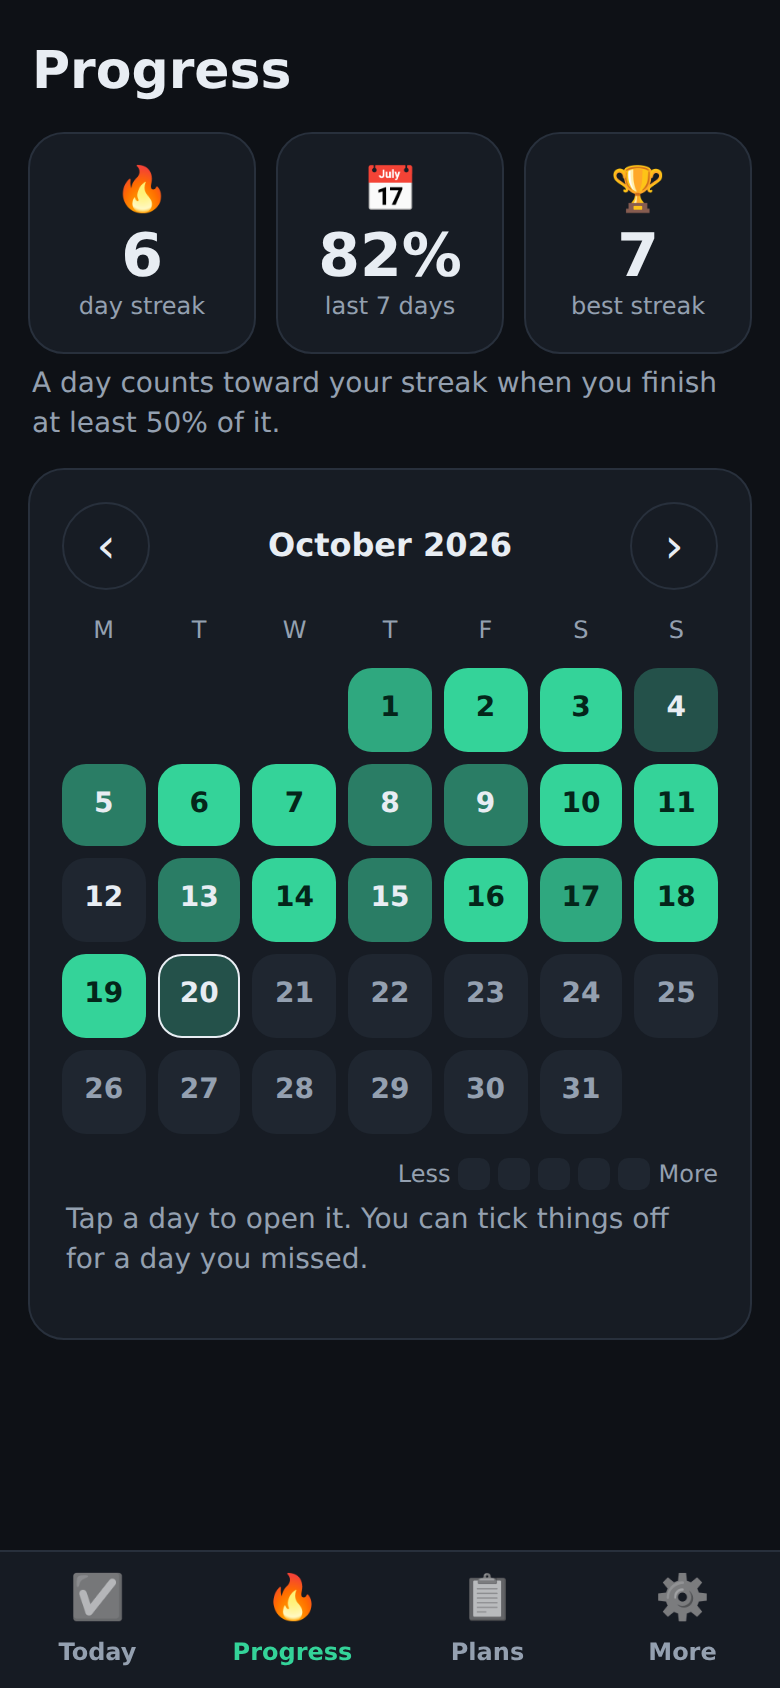
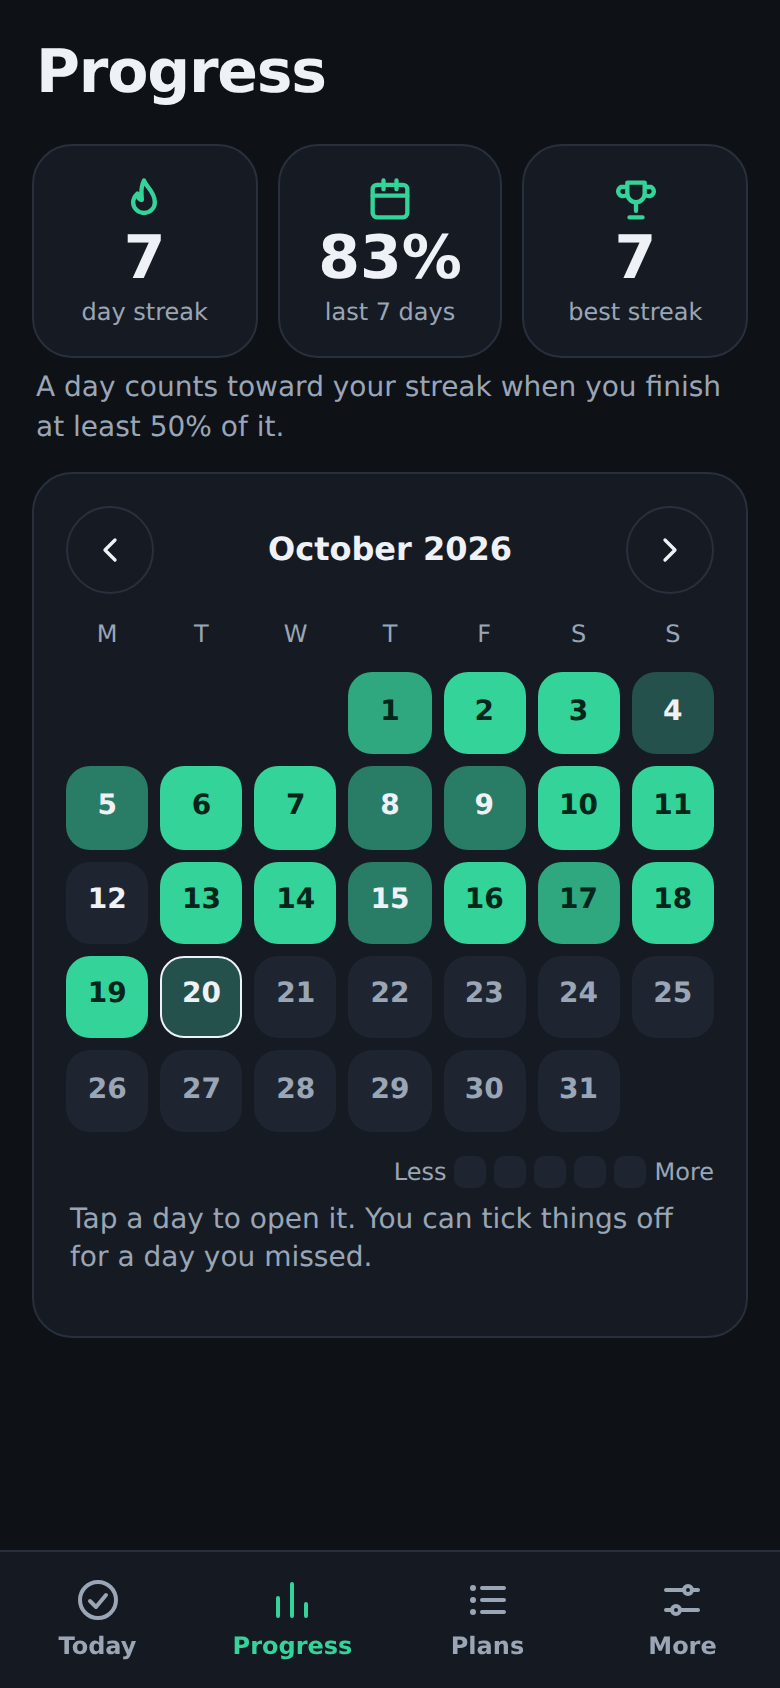
Docs, screenshots and a fix for 'null' text in the set sheet
- Fix: the set sheet printed the word null for exercises with no notes or
  last-time history (native append() stringifies null)
- README, PRIVACY and CONTRIBUTING updated for set logging, the plan builder,
  data safety, weekly plans and the new modules
- Fresh screenshots of the redesigned app

Claude-Session: https://claude.ai/code/session_01ARAdRuFuZMEY86m39CDVex

diff --git a/js/today.js b/js/today.js
@@ -335,7 +335,9 @@ export function renderToday(root, plan, date, goto) {
         }
         draw();
 
+        // Native append() would print a skipped `null` as the word "null", so drop empty items first.
         body.append(
+          ...[
           h('p', { class: 'sheet-target' }, target),
           w.notes && h('p', { class: 'sheet-note' }, w.notes),
           last && h('p', { class: 'last-time' }, h('b', {}, 'Last time '), `(${fromStr(last.date).toLocaleDateString(LOCALE, { day: 'numeric', month: 'short' })}): ${formatSets(last.sets)}`),
@@ -346,7 +348,8 @@ export function renderToday(root, plan, date, goto) {
             h('a', { class: 'btn ghost', href: w.video || searchUrl, target: '_blank', rel: 'noopener noreferrer' }, icon('play', 16), w.video ? 'Watch video' : 'Form video'),
             restSecs && h('button', { class: 'btn ghost', type: 'button', onclick: () => startRest(restSecs, w.exercise) }, icon('timer', 18), `Rest ${w.rest}`)
           ),
-          h('button', { class: 'btn primary wide', type: 'button', onclick: close }, 'Done')
+          h('button', { class: 'btn primary wide', type: 'button', onclick: close }, 'Done'),
+          ].filter(Boolean)
         );
       },
     });

diff --git a/README.md b/README.md
@@ -1,61 +1,86 @@
 # TickFit
 
-**A free gym and meal checklist that lives on your phone.** Turn any workout and meal plan into a daily tap-to-tick list. No account, no backend, no tracking, no subscription. It works offline and installs like an app on iPhone and Android.
+**A free gym and meal tracker that lives on your phone.** Follow any workout and meal plan as a simple daily checklist, log your sets, and build a plan from your own details. No account, no backend, no tracking, no subscription. It works offline and installs like an app on iPhone and Android.
 
 > Built to share with friends so nobody has to pay for a fitness app.
 
 <p>
-  <img src="docs/screenshots/today.png" alt="Today screen with progress ring, workout and meals" width="240">
-  <img src="docs/screenshots/progress.png" alt="Progress screen with streak and calendar" width="240">
-  <img src="docs/screenshots/rest-timer.png" alt="Rest timer counting down between sets" width="240">
+  <img src="docs/screenshots/today.png" alt="Today screen with week strip, progress ring and workout tiles" width="240">
+  <img src="docs/screenshots/set-sheet.png" alt="Set by set logging sheet with a rest timer running" width="240">
+  <img src="docs/screenshots/builder-plan.png" alt="The plan builder showing daily targets and the week" width="240">
 </p>
 <p>
-  <img src="docs/screenshots/import.png" alt="Importing a plan, with friendly error messages" width="240">
+  <img src="docs/screenshots/progress.png" alt="Progress screen with streak and calendar" width="240">
+  <img src="docs/screenshots/more.png" alt="Your data screen with backup and storage status" width="240">
   <img src="docs/screenshots/today-light.png" alt="Light theme" width="240">
 </p>
 
 ## What it does
 
-- **Today screen:** your workout and meals as big tappable checklists, a progress ring, water tracker, supplements and notes. It picks today's day automatically from your start date, and you can jump to any day.
-- **Workouts:** exercise, sets, reps, rest and notes, plus an optional box to log the weight you used. A one tap rest timer with a beep.
-- **Meals:** time, name, foods, optional calories and protein, with daily totals.
-- **Progress:** streak, last 7 day completion, and a month calendar. Tap a day to open it.
-- **Bring any plan:** paste JSON, upload a PDF or text file, or let a free chatbot do the conversion (see below). Friendly errors tell you exactly what is wrong ("Day 3 is missing meals").
-- **Several plans** at once, with a switcher. **Edit** any plan after importing.
-- **Backup:** export and import all your data as one JSON file.
-- **Dark by default**, with light and match-my-phone themes.
-- **Works offline** after the first load.
-- A built in **4 week beginner plan with vegetarian Indian meals** (paneer, dal, curd, sprouts and so on) so it is useful on first open.
+- **Today:** your workout, meals, supplements and water as big tappable tiles, a progress ring, and a scrollable week strip with completion dots. Tap the day title to jump to any day of the plan.
+- **Log every set:** tap an exercise to open a sheet with one row per set. Enter weight and reps, tick each set, add or remove sets. Values are pre-filled from the last time you did that exercise ("Last time (Sep 27): 3 sets of 22.5 × 10"), so progress is easy to see. The round tick on a tile still marks the whole exercise done in one tap.
+- **Rest timer:** starts by itself after each finished set (you can switch that off), with +15s, skip, beep and vibration.
+- **Form videos:** each exercise can carry a video link. If it doesn't, the **Form video** button opens a YouTube search for that exercise.
+- **Build a plan for you:** answer a few questions (age, height, weight, goal, experience, days a week, where you train, session length, cardio, diet, injuries) and TickFit builds a full weekly workout and Indian meal plan on your phone, with calories and protein worked out for you. No internet or AI needed.
+- **Or bring any plan:** paste JSON, upload a PDF or text file, or let a free chatbot convert your document. Friendly errors tell you exactly what is wrong ("Day 3 is missing meals").
+- **Progress:** streak, last 7 day completion and a month calendar. Tap a day to open it.
+- **Several plans** with a switcher, and an **editor** for every exercise, meal and extra.
+- **Keeps your data safe:** asks the browser to protect your data, reminds you to back up, and makes moving to a new phone easy (see below).
+- **Dark by default**, with light and match-my-phone themes. Works offline after the first load.
+- A built in **4 week beginner plan with vegetarian Indian meals**, so it is useful on first open.
 
 ## Privacy
 
-Everything stays on your device. There is no server to send anything to. See [PRIVACY.md](PRIVACY.md) for the details, including the one optional feature (Gemini) that does send text to Google if you choose to turn it on.
+Everything stays on your device. There is no server to send anything to. See [PRIVACY.md](PRIVACY.md) for the details, including the one optional feature (Gemini) that does send your document text to Google if you choose to turn it on.
 
 ## How to use it
 
-1. **Open the app.** On first open it loads the sample plan and you land on **Today**. Tap an item to tick it. Tap **⏱** next to an exercise to start its rest timer.
-2. **Add your own plan:** go to **Plans**, then follow the AI workflow below.
-3. **Check your progress** on the **Progress** tab, and make a **backup** under **More** now and then.
+1. **Open the app.** On first open it loads the sample plan and you land on **Today**. Tap the round tick to mark an exercise done, or tap the exercise to log each set.
+2. **Add your own plan:** go to **Plans, then New plan**, and pick **Build one for me**, **Paste or upload a plan**, or the sample.
+3. **Check your progress** on the **Progress** tab, and use **More** to see when you last backed up.
 
 ### Install it on your phone
 
 - **iPhone (Safari):** Share button, then **Add to Home Screen**.
 - **Android (Chrome):** menu, then **Install app** (or **Add to Home screen**).
 
-After that it opens full screen and works without internet.
+After that it opens full screen and works without internet. On an iPhone this also matters for your data: Safari can erase a website's data after about a week of not opening it, but an installed app is safe from that.
 
-## The AI prompt workflow
+## Your data: where it lives and how not to lose it
 
-You do not need to write JSON by hand. Any free chatbot can do it:
+TickFit stores everything in your browser on your phone. That is what makes it private, free and offline. It also means there is no account to recover from, so:
 
-1. In TickFit, open **Plans** and tap **Copy AI prompt**.
-2. Open any chatbot (ChatGPT, Gemini, Claude, Copilot, anything free). Paste the prompt, then paste your plan document under it. A PDF from your trainer or dietitian works: copy its text, or tap **Upload PDF or text** in TickFit to extract the text, then **Copy prompt with this text**.
+- **Install it** to your Home Screen (see above). Installed apps are far less likely to have their data cleared.
+- **Back up now and then.** TickFit shows a gentle reminder on Today once you have a few days logged and no recent backup. **More > Share backup** opens your phone's share sheet (save to Files or Drive, send it on WhatsApp or email). **Save backup file** downloads it instead.
+- **New phone?** Make a backup on the old phone, open the same link on the new one, then **More > Restore from a backup file**. Your Gemini key (if you set one) is never in the backup, on purpose.
+- **Two devices do not sync.** Without a server that isn't possible, so each device keeps its own history.
+
+## Build a plan from your details
+
+**Plans > New plan > Build one for me.** You answer about a dozen taps and numbers, see a preview (daily calories and protein, the week, a sample workout), and then create the plan.
+
+How it works, so you can judge it:
+
+- **Calories:** your resting energy from the Mifflin-St Jeor formula, multiplied for how active you are and how often you train, then adjusted for your goal (about 20% less to lose fat, a small surplus to build muscle). It never goes below 1,200 kcal (women) or 1,500 (men) for fat loss, and it holds calories at maintenance instead of cutting them if you are under 18 or your BMI is low.
+- **Protein:** about 1.4 to 2 g per kg depending on the goal, from a sensible reference weight.
+- **Workouts:** a split that fits your days (full body, upper/lower, push/pull/legs), exercises chosen for your equipment, with beginner-friendly picks first (leg press before barbell squats). Bad knees, lower back or shoulders remove the exercises that stress them.
+- **Meals:** Indian home cooking for vegetarian, eggetarian, non-veg or vegan eaters, with portions sized so each meal's calories and protein add up. The meals are real estimates of typical home portions, not lab values.
+- **It is a starting point.** You can edit every exercise and meal afterwards. This is general guidance, not medical advice: if you have a medical condition, are pregnant or are recovering from an injury, check with a doctor first.
+
+Prefer to let a chatbot design it? **Or copy a prompt for a chatbot** copies the same details as a ready prompt.
+
+## The AI prompt workflow (for your own documents)
+
+You do not need to write JSON by hand. Any free chatbot can convert a plan document for you:
+
+1. In TickFit, open **Plans > New plan > Paste or upload a plan** and tap **Copy AI prompt**.
+2. Open any chatbot (ChatGPT, Gemini, Claude, Copilot, anything free). Paste the prompt, then paste your plan document under it. For a PDF from your trainer or dietitian, tap **Upload PDF or text** in TickFit to extract its text on your phone, then **Copy prompt with this text**.
 3. The chatbot replies with JSON. Copy the whole reply.
 4. Paste it into TickFit's box and tap **Import plan**. Stray text and code fences around the JSON are handled for you.
 
 If something is wrong, TickFit lists every problem in plain language. Paste that back to the chatbot and ask it to fix it.
 
-**Optional one tap version:** if you have a free [Google Gemini API key](https://aistudio.google.com/), you can add it under **More > AI helper** and use **Convert with Gemini** instead of copy and paste. Read the warnings on that screen first: your document text is sent to Google, and the key is stored (unencrypted) in your browser.
+**Optional one tap version:** with a free [Google Gemini API key](https://aistudio.google.com/) in **More > AI helper**, **Convert with Gemini** replaces the copy and paste. Read the warnings on that screen first: your document text is sent to Google, and the key is stored (unencrypted) in your browser.
 
 ## Plan format
 
@@ -66,9 +91,9 @@ Plans are plain JSON. Rest days have an empty `workout` list.
   "name": "Beginner Muscle Plan",
   "days": [
     {
-      "label": "Day 1 Push",
+      "label": "Monday Push",
       "workout": [
-        { "exercise": "Bench Press", "sets": 3, "reps": "8 to 10", "rest": "90s", "notes": "" }
+        { "exercise": "Bench Press", "sets": 3, "reps": "8 to 10", "rest": "90s", "weight": "20 kg", "notes": "", "video": "https://youtu.be/example" }
       ],
       "meals": [
         { "time": "8:00 AM", "name": "Breakfast", "items": ["Paneer bhurji", "2 rotis"], "calories": 450, "protein": 25 }
@@ -76,7 +101,7 @@ Plans are plain JSON. Rest days have an empty `workout` list.
       "extras": { "waterLiters": 3, "supplements": ["Creatine 5g"], "notes": "" }
     },
     {
-      "label": "Day 2 Rest",
+      "label": "Tuesday Rest",
       "workout": [],
       "meals": [{ "name": "Breakfast", "items": ["Poha"] }]
     }
@@ -90,16 +115,18 @@ Plans are plain JSON. Rest days have an empty `workout` list.
 | `days[].label` | no | Defaults to "Day N" |
 | `days[].workout` | **yes** | `[]` for a rest day |
 | `days[].meals` | **yes** | Can be `[]` |
-| `workout[].exercise` | **yes** | `sets`, `reps`, `rest`, `notes` are optional |
+| `workout[].exercise` | **yes** | `sets`, `reps`, `rest`, `weight`, `notes`, `video` are optional |
+| `workout[].weight` | no | A target like `"20 kg"` or `"bodyweight"`. Pre-fills the weight in the set sheet |
+| `workout[].video` | no | A web link (`https://...`). Anything else is ignored with a warning |
 | `meals[].name`, `meals[].items` | **yes** | `time`, `calories`, `protein` are optional |
 | `extras` | no | `waterLiters`, `supplements` (list), `notes` |
 
 There are two kinds of plan:
 
 - **Cycle (default):** Day 1 is your start date, Day 2 the next day, and so on, repeating after the last day. The built in sample works like this.
-- **Weekly:** if **every** day label starts with a weekday (`"Monday Chest + Triceps"`, `"Tue: Back"`), the plan follows the real calendar instead. A Monday shows the Monday entry, and weekdays you don't list (say Sunday in a Monday to Saturday plan) are rest days. No start date is needed, and a 6 day plan no longer drifts.
+- **Weekly:** if **every** day label starts with a weekday (`"Monday Chest + Triceps"`, `"Tue: Back"`), the plan follows the real calendar instead. A Monday shows the Monday entry, and weekdays you don't list (say Sunday in a Monday to Saturday plan) are rest days. No start date is needed, and a 6 day plan no longer drifts. Plans built by the builder are weekly plans.
 
-Rest days with nothing to tick never break your streak. The `rest` text is read for the timer: `90s`, `2 min`, `1:30` and `60 to 90s` all work.
+Rest days with nothing to tick never break your streak. The `reps` text decides how an exercise is logged: a rep count like `8 to 10` gives weight and reps boxes, a timed one like `30 sec` or `30 min` gives a simple tick. The `rest` text feeds the timer: `90s`, `2 min`, `1:30` and `60 to 90s` all work.
 
 The importer is forgiving: it accepts code fences, chatty text around the JSON, trailing commas, curly or single quotes, unquoted keys, and numbers written as text.
 
@@ -133,7 +160,7 @@ All paths in the app are relative, so it works under any `/REPO-NAME/` address.
 node tests/all.mjs
 ```
 
-No installs needed. The parser is tested against valid, messy and broken inputs (`tests/cases.js`). See [CONTRIBUTING.md](CONTRIBUTING.md).
+No installs needed. It covers the plan importer (valid, messy and broken inputs), weekday scheduling, streaks, set logging, rest-time parsing, the backup reminder logic, the offline file list, and the plan builder: the builder test generates **2,700 plans across every combination of answers** and checks each one is valid, uses only the equipment you have, avoids exercises that stress your injuries, respects your diet, stays close to its calorie target and varies day to day. See [CONTRIBUTING.md](CONTRIBUTING.md).
 
 ## Contributing
 

diff --git a/CONTRIBUTING.md b/CONTRIBUTING.md
@@ -29,6 +29,10 @@ This runs, with no setup:
 
 - `tests/run.mjs`: the plan parser against valid, messy and broken inputs (`tests/cases.js`). **Found an input that breaks the importer? Add a case.**
 - `tests/stats.mjs`: streaks and weekly percentages
+- `tests/schedule.mjs`: weekday plans, rest days and jump to a day
+- `tests/logging.mjs`: set by set logging and the "last time" lookup
+- `tests/safety.mjs`: backup reminder logic
+- `tests/builder.mjs`: the plan builder, over 2,700 combinations of answers
 - `tests/timer.mjs`: rest time parsing ("90s", "2 min", "1:30")
 - `tests/check-sw.mjs`: every app file is listed in `sw.js`
 
@@ -40,22 +44,31 @@ You can also open `tests/parser.test.html` through the local server to run the p
 | --- | --- |
 | `js/parser.js` | Turns pasted text into a clean plan, with friendly errors |
 | `js/ai.js` | The "Copy AI prompt" text (keep it in sync with the parser) |
-| `js/store.js` | localStorage, backup export and import |
-| `js/stats.js` | Counting what is done, streaks, weekly percentage |
-| `js/today.js` | The Today screen |
+| `js/store.js` | localStorage, backups, storage protection |
+| `js/schedule.js` | Which plan day lands on which date (cycle and weekday plans) |
+| `js/stats.js` | Counting what is done, streaks, last-time lookup, target parsing |
+| `js/logging.js` | How set by set logging changes a day's record |
+| `js/today.js` | The Today screen and the set sheet |
+| `js/sheet.js`, `js/icons.js`, `js/dom.js` | Bottom sheet, SVG icons, tiny DOM helper |
 | `js/progress.js` | Streak, week percentage, calendar |
 | `js/editor.js` | Editing a plan |
-| `js/plans.js`, `js/more.js` | Plans list and import, settings and backup |
+| `js/plans.js`, `js/more.js` | Plans, new plan and import screens; settings and your data |
+| `js/safety.js`, `js/backup.js` | Backup reminders, share sheet and file backup |
+| `js/builder.js`, `js/exercises.js`, `js/foods.js` | The plan builder: maths, exercise library, Indian food library |
+| `js/build.js` | The plan builder screen |
 | `js/timer.js` | Rest timer |
 | `js/extract.js`, `js/gemini.js` | PDF/text reading, optional Gemini |
 | `sw.js` | Offline support |
 | `data/sample-plan.json` | The built in 4 week sample plan |
 
+**Adding exercises or foods** is the easiest way to contribute: add a line to `js/exercises.js` (tag its equipment, difficulty and any body part it can aggravate) or `js/foods.js` (calories and protein per unit). `node tests/builder.mjs` will tell you if it breaks anything.
+
 ## Adding or changing files
 
 - **New file in `js/`, `css/`, `data/` or `icons/`?** Add it to the list in `sw.js` so it works offline, then run `node tests/check-sw.mjs`.
 - **Changed anything users would notice?** Bump `CACHE_VERSION` in `sw.js`.
-- **Changed the plan format?** Update `js/parser.js`, `js/ai.js`, the README and add test cases.
+- **Changed the plan format?** Update `js/parser.js`, `js/ai.js`, `js/editor.js`, the README and add test cases.
+- **Rendering text?** Use the `h()` helper in `js/dom.js`. Passing a `null` straight to the browser's own `append()` prints the word "null".
 - **Icons** come from `icons/icon.svg` and `icons/icon-maskable.svg`. Export them to the PNG sizes listed in `manifest.webmanifest` if you change the design.
 
 ## Pull requests

diff --git a/PRIVACY.md b/PRIVACY.md
@@ -4,7 +4,7 @@
 
 ## What is stored, and where
 
-Everything you enter (plans, ticks, weights, notes, water, settings) is saved in your browser's `localStorage`, on your own device. Nothing else exists. The author of TickFit cannot see it, because there is nowhere for it to go.
+Everything you enter (plans, ticks, sets, weights, notes, water, settings, and the answers you give the plan builder such as age, height and weight) is saved in your browser's `localStorage`, on your own device. Nothing else exists. The author of TickFit cannot see it, because there is nowhere for it to go.
 
 ## What leaves your device
 
@@ -20,6 +20,18 @@ TickFit also tells your browser to enforce this: the page ships with a Content S
 - Anyone who can use this phone or browser profile, or a malicious browser extension, could read it. Use a key you can revoke, and never reuse an important one.
 - It is **never** included in backup files.
 - **More > Remove key from this device** deletes it.
+
+## Plan builder
+
+The "Build one for me" feature runs entirely on your phone using formulas and built in lists. Your age, height, weight and other answers are never sent anywhere. They are remembered locally so the form is pre-filled next time, and they are part of your backup file, so keep that file private. "Or copy a prompt for a chatbot" only copies text to your clipboard. If you then paste it into a chatbot, that chatbot's own privacy rules apply.
+
+## Form videos
+
+The "Form video" button simply opens a link (your own, or a YouTube search for the exercise's name) in a new tab. TickFit does not load or embed any video itself.
+
+## Backups
+
+A backup file contains all your plans, progress, notes, settings and plan builder answers (but never your Gemini key). It is a normal file you control. "Share backup" hands the file to your phone's share sheet, and where it goes from there is up to you.
 
 ## Files you upload
 
